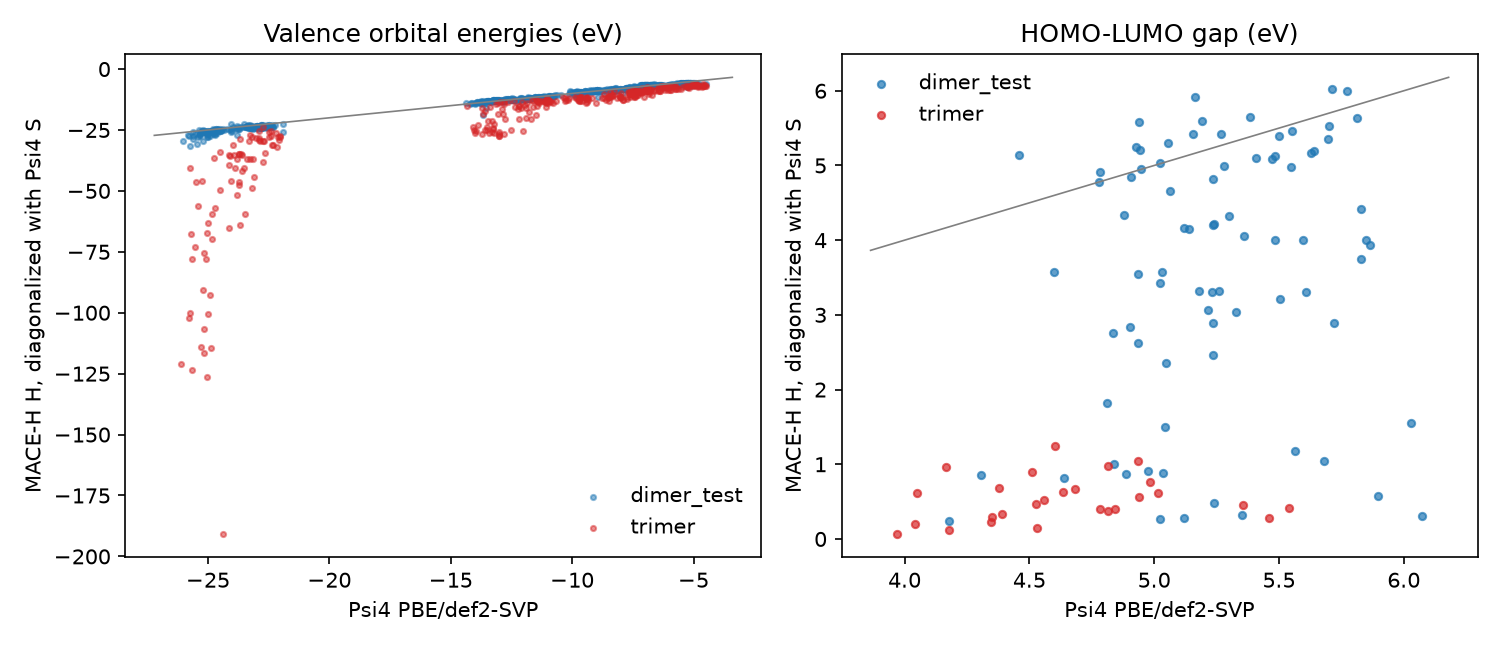
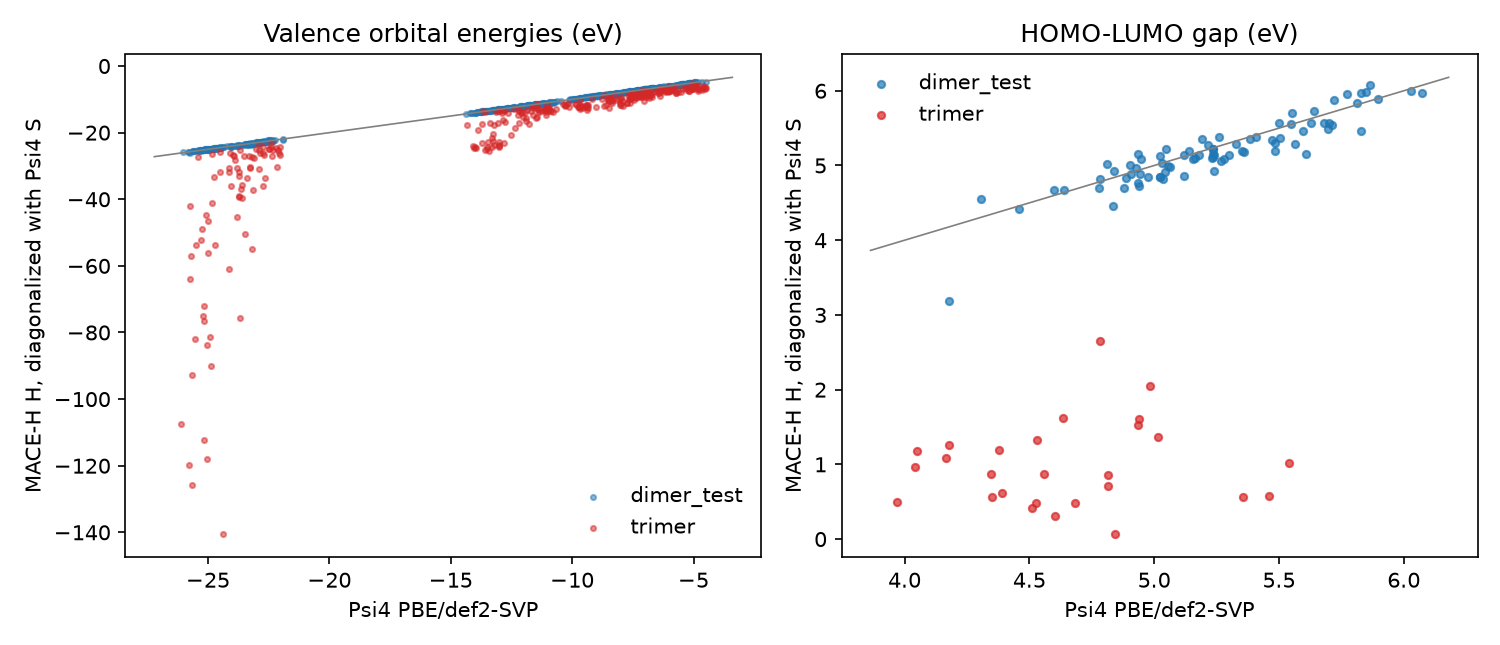
maceh_water: finish the 400-epoch training and report the results
On dimers from a held-out MD run, the MACE-H Hamiltonian gives HOMO-LUMO
gaps within 0.14 eV and valence levels within 62 meV (H elements 24 meV).
On water trimers, which it never saw, it fails: 0.28 eV element errors
become 3.7 eV gap errors through the ill-conditioned def2-SVP overlap.
The README now reports these numbers, how the run was resumed, and the
CUDA faults hit while the GPU was shared.

diff --git a/examples/maceh_water/README.md b/examples/maceh_water/README.md
@@ -9,10 +9,11 @@ and its own converters cover OpenMX, ABACUS, and FHI-aims. None of those runs on
 this laptop, so [`hamiltonian.py`](../../src/samson_mlip_visualizer/hamiltonian.py)
 adds a Psi4 → DeepH converter, and this example trains on it.
 
-**Status (2026-09-30): the pipeline works end to end and is verified; the
-model shown is undertrained.** The run shared the 8 GB GPU with another job and
-stalled after about 50 epochs. The numbers below are from the epoch-30
-checkpoint, so they test the plumbing, not what MACE-H can do.
+**Result (2026-09-30, 400 epochs):** on water dimers from an MD run it never
+saw, the predicted H gives HOMO–LUMO gaps within 0.14 eV (mean abs.) and
+valence orbital energies within 62 meV. On water trimers, which it was never
+trained on, it fails: gaps are off by 3.7 eV and some levels by tens of eV.
+128 training dimers teach the dimer, not local chemistry that transfers.
 
 ## Pipeline
 
@@ -41,32 +42,44 @@ handled.
   `hamiltonians.h5` against `overlaps.h5` reproduce Psi4's orbital energies to
   3e-12 eV.
 
-## Epoch-30 checkpoint (undertrained)
+## Results
 
-| MAE | train dimers | test dimers | trimers |
-|---|---|---|---|
-| H elements (meV) | 104 | 129 | 409 |
-| valence orbital energies (meV) | 396 | 531 | 9 857 |
-| HOMO / LUMO (meV) | 502 / 1 452 | 662 / 2 329 | 1 905 / 6 018 |
-| HOMO–LUMO gap (meV) (reference gaps 4.0–6.4 eV) | 1 218 | 1 769 | 4 112 |
+Best checkpoint of 400 epochs (epoch 394, validation MSE 0.0074 eV²; learning
+rate decayed from 2e-3 to 2.5e-4). The epoch-30 checkpoint is shown for
+comparison.
 
-![Orbital energies and gaps, epoch-30 checkpoint](images/maceh_water.png)
+| MAE | train dimers | test dimers | trimers | test dimers, epoch 30 |
+|---|---|---|---|---|
+| H elements (meV) | 12.5 | 23.6 | 278 | 129 |
+| on-site / off-site blocks (meV) | 13.8 / 12.2 | 30.9 / 21.6 | 220 / 288 | 169 / 118 |
+| valence orbital energies (meV) | 24 | 62 | 7 459 | 531 |
+| O 1s levels (meV) | 189 | 753 | 25 391 | 7 158 |
+| HOMO / LUMO (meV) | 17 / 107 | 61 / 154 | 1 700 / 5 354 | 662 / 2 329 |
+| HOMO–LUMO gap (meV) | 107 | 140 | 3 654 | 1 769 |
+| reference gaps (eV) | 4.45–6.43 | 4.18–6.07 | 3.97–5.54 | |
 
-Errors of about 0.1 eV per matrix element become errors of 1 eV or more in the
-eigenvalues. def2-SVP on H-bonded clusters has near-linearly-dependent
-functions, so S has small eigenvalues, and diagonalizing against S amplifies
-errors in H. The spurious low LUMOs and the scattered trimer levels come from
-this. Useful eigenvalues need H errors of a few meV. The training loss (MSE
-over raw elements) is also dominated by the O 1s diagonal near −510 eV.
+![Orbital energies and gaps on held-out dimers and trimers](images/maceh_water.png)
+
+- **Held-out dimers.** The predicted gaps follow Psi4 across a 2 eV range (one
+  outlier, 4.2 vs 3.2 eV). The occupied levels are more accurate than the LUMO
+  (61 against 154 meV), and the O 1s core is the worst (0.75 eV) because its
+  diagonal near −510 eV is the largest number in the loss.
+- **Why the eigenvalues need meV accuracy.** def2-SVP on hydrogen-bonded
+  clusters has near-linearly-dependent functions, so S has small eigenvalues,
+  and diagonalizing against S amplifies errors in H. At epoch 30, a 0.13 eV
+  element error still gave 1.8 eV gap errors. At 24 meV the errors are 0.14 eV.
+- **Trimers.** A trimer has environments no dimer has: two H-bond partners per
+  water and non-bonded water pairs. The blocks there are off by 0.2–0.3 eV,
+  and the amplification turns that into collapsed gaps and spurious deep
+  levels. Transfer to larger clusters needs trimers (or bulk-water snapshots)
+  in training, not only more dimers.
 
 ## Next steps
 
-- Finish the 400-epoch training on a free GPU (or LONI `gpu2`), then rerun
-  `evaluate.py`.
-- Add more dimer frames (128 is small) and some trimers, if the goal is transfer
-  to larger clusters.
-- Consider a smaller or less diffuse basis, or subtracting the on-site
-  isolated-molecule blocks, so the model learns a smaller residual.
+- Add trimers and larger clusters to training, and test on tetramers.
+- Weight the loss per block, or subtract the isolated-molecule on-site blocks,
+  so the O 1s diagonal does not dominate.
+- Try a less diffuse basis (the ill-conditioned S sets how accurate H must be).
 
 ## Environment notes
 
@@ -79,14 +92,13 @@ small shim that uses `index_add` sits in the venv's site-packages (an earlier
 settings have to be passed explicitly: `[basic] inference = False` in the
 train config, and no `verbose=` in the scheduler parameters (torch ≥ 2.7).
 
-## Paused run (2026-09-30 11:08)
+## Running it
 
-Training reached epoch 208 of 400 (best: epoch 207, val MSE 0.012 eV², LR
-halved to 1e-3; the epoch-30 checkpoint evaluated above had 0.096). It stopped
-on a CUDA error (`CUBLAS_STATUS_EXECUTION_FAILED`) while the GPU was shared with
-four other MACE trainings. Continue with (add `--device cpu` if the GPU is busy;
-about 60 s per epoch on 32 free threads):
-
-```bash
-PYTHONPATH=../../src python train.py --resume D:/MLIP_Work_Folder/maceh_water/train/2026-09-30_08-48-15_water_dimer/model.pkl
-```
+The 400 epochs took about 6 h of running time spread over two days
+(28–70 s per epoch). They were interrupted by the laptop sleeping and by two CUDA
+faults while the GPU was shared: `CUBLAS_STATUS_EXECUTION_FAILED` and, with an
+earlier torch_scatter shim, an illegal instruction. `train.py --resume
+RUN/model.pkl` continues from the last epoch with the optimizer and LR schedule
+restored, on `--device cpu` if needed (about 60 s per epoch on 32 threads). On
+this laptop MACE-H evaluation hung on CUDA after those faults, so use
+`evaluate.py --device cpu` (4 minutes for all 235 structures).

diff --git a/README.md b/README.md
@@ -421,16 +421,16 @@ MACE-MP-0 plus an HSE06 correction, with VASP PBE+U/HSE06 packages from
 the best forces near equilibrium, but they needed a 7 Å cutoff to fix the
 long-ranged xTB overbinding of the Ni–CO bond.
 
-### Learning the Kohn-Sham Hamiltonian (MACE-H, in progress)
+### Learning the Kohn-Sham Hamiltonian (MACE-H)
 
 [MACE-H](https://github.com/maurergroup/MACE-H) predicts the Kohn-Sham matrix
 block by block instead of an energy. `samson_mlip_visualizer.hamiltonian`
 exports Psi4's Kohn-Sham and overlap matrices in the DeepH format it reads,
 with the orbital order checked by rotation tests.
-[`examples/maceh_water/`](examples/maceh_water/) trains it on water dimers and
-tests it on held-out dimers and on trimers. The pipeline works end to end, but
-training is still unfinished (paused at epoch 208 of 400), so the example does
-not report final accuracy yet.
+[`examples/maceh_water/`](examples/maceh_water/) trains it on 128 water dimers
+(PBE/def2-SVP). On dimers from a held-out MD run, the predicted H gives
+HOMO–LUMO gaps within 0.14 eV. On water trimers it fails (3.7 eV gap errors):
+dimers alone do not teach it the trimer's environments.
 
 ### Viewing normal modes
 
